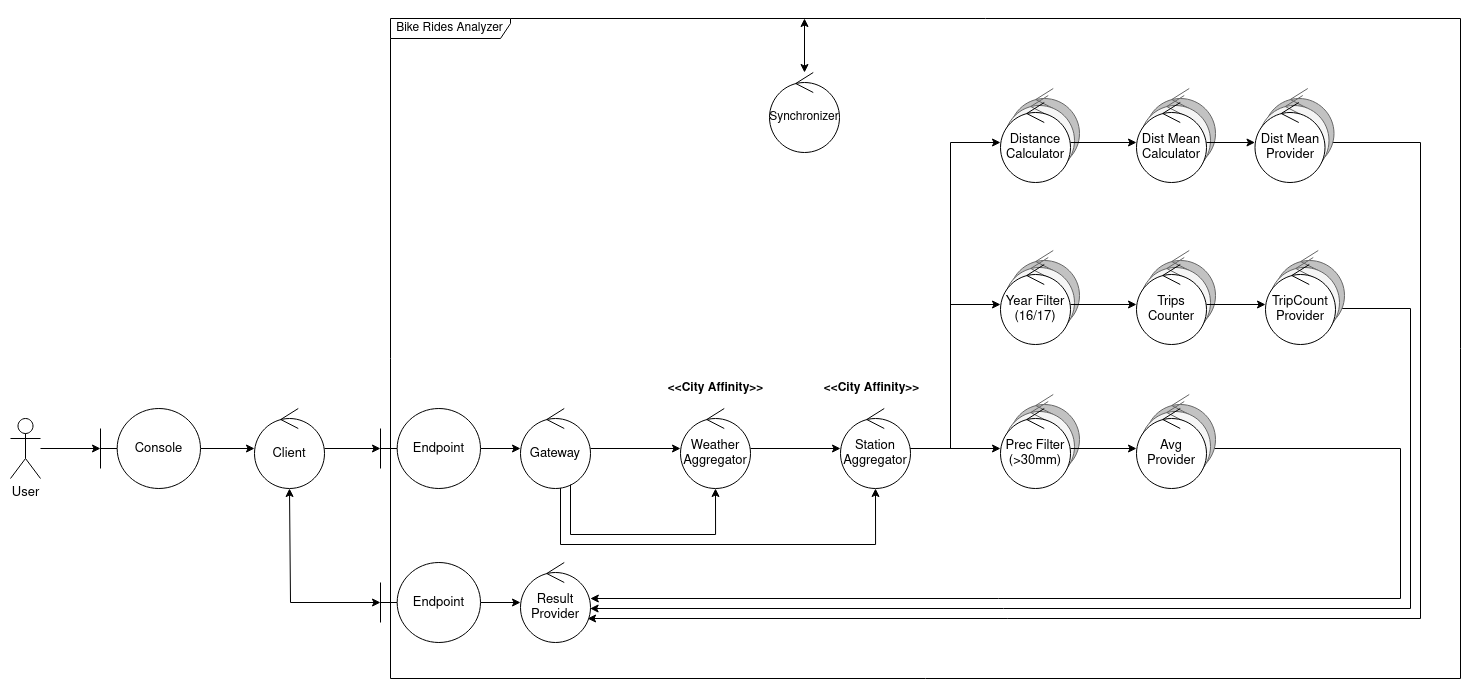
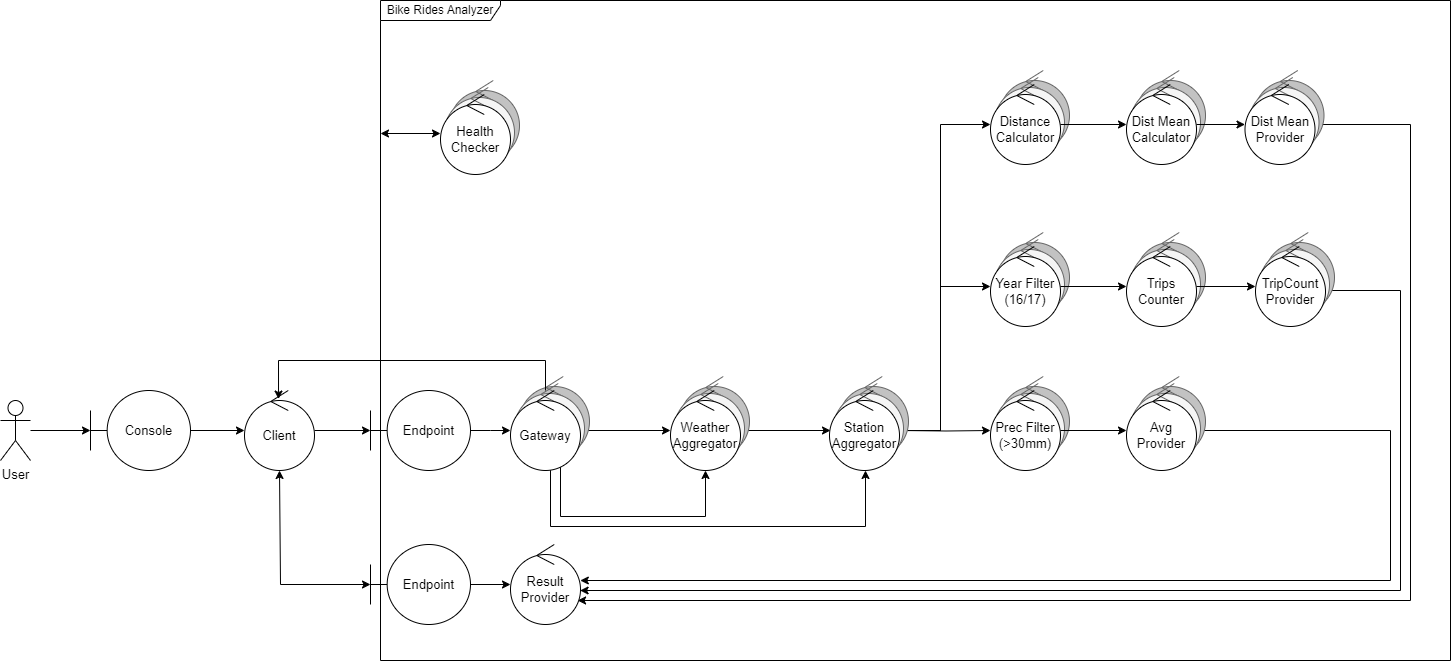
docs: alcance, arqu, vLog, vFis

diff --git a/README.md b/README.md
@@ -91,17 +91,23 @@ Se deben generar los siguientes reportes:
 - Los nombres de estaciones de Montreal para la que el promedio de
   los ciclistas recorren más de 6km en llegar a ellas.
 
+Ademas, el sistema debe permitir la ejecución de múltiples análisis en paralelo y/o en secuencia sin reiniciarlo.
+
 ### Arquitectura de Software
 
-La arquitectura consiste en un cliente, que se comunica con un sistema distribuido
-mediante sockets ZMQ. El sistema procesa la información recibida utilizando RabbitMQ como
-broker de mensajes.
+La arquitectura esta compuesta por multiples nodos de diferentes tipos que se distribuyen el trabajo y responsabilidades del sistema.
+Toda la comunicacion entre nodos se realiza mediante RabbitMQ.
+Los clientes enviaran sus peticiones a un `Gateway`, pudiendo recibir mensajes de control de este, y recibiran sus respuestas de un `ResponseProvider`.
+
+> Pueden verse en mas detalle los componentes del sistema en la [vista fisica](#vista-física).
 
 ### Objetivos y limitaciones arquitectónicas
 
 - **Escalabilidad**: Se debe soportar el incremento de los elementos de cómputo para
   escalar los volúmenes de información a procesar.
 - **Mantenibilidad**: La comunicación de grupos debe encapsularse en un middleware.
+- **Tolerancia a fallas**: El sistema debe ser tolerante a fallas y caidas de los nodos.
+- **Alta disponibilidad**: El sistema debe estar altamente disponible para los clientes.
 
 ### Escenarios
 
@@ -119,7 +125,7 @@ DAG global del sistema.
 
 En el diagrama se puede observar la división de responsabilidades entre los distintos componentes
 del sistema. En primer lugar, el Gateway se encarga de distribuir la información recibida del cliente,
-entre los aggregators. Cada aggregator opera con una side table que contiene un pequeño conjunto de
+entre los aggregators. Cada aggregator opera con una side table que contiene un conjunto de
 datos estáticos.
 
 Para disminuir el tamaño de los mensajes que debe procesar RabbitMQ, el Gateway poda todos los
@@ -129,7 +135,7 @@ necesita la precipitación. Por lo tanto, el Gateway elimina todos los campos qu
 antes de enviar la información al aggregator.
 
 La información de las side tables se ingresa al sistema mediante un mecanismo de pub-sub, para
-permitir que varias réplicas de los aggregators puedan construir sus side tables.
+permitir que todas las réplicas de los aggregators puedan construir sus side tables.
 Esto favorece la escalabilidad del sistema, a costa de duplicar la información en cada réplica.
 
 ### Vista Física
@@ -145,45 +151,34 @@ horizontal.
 
 El cliente se comunica con el sistema a través de dos endpoints: uno para enviar la información (`Gateway`),
 y otro para recibir los reportes (`Result Provider`). En ambos casos, la comunicación se realiza mediante
-sockets ZMQ.
-Dentro del sistema `Bike Rides Analyzer`, la comunicación se realiza mediante RabbitMQ.
+RabbitMQ.
+Dentro del sistema `Bike Rides Analyzer`, la comunicación tambien se realiza mediante RabbitMQ.
 
-Algunas entidades poseen el estereotipo `<<City Affinity>>`. Esto quiere decir que, para dicha entidad,
-existirá un nodo por cada ciudad. Por ejemplo, se deben desplegar tres instancias de `Weather Aggregator`.
 
-Los aggregators, además de tener affinity con una ciudad, pueden replicarse. Por ejemplo, pueden desplegarse
-3 `Weather Aggregator` para Washington, y 2 `Weather Aggregator` para Montreal.
 
-![robustness_query_1](docs/robustness_query_1.png)
+![robustness_query](docs/robustness_query.png)
 
-![robustness_query_2](docs/robustness_query_2.png)
-
-![robustness_query_3](docs/robustness_query_3.png)
-
-Diagramas de robustez detallados, con información de las queues que se utilizan para comunicar las distintas
+Diagrama de robustez detallado, con información de las queues que se utilizan para comunicar las distintas
 etapas del pipeline.
 
-En los anteriores se observa la forma en que se distribuyen los mensajes entre los distintos
-componentes del sistema. Además, se puede ver el mecanismo por el cual se dividen los mensajes en aquellos
-nodos que poseen `<<City Affinity>>`: el nombre de la queue inicia con el nombre de la ciudad, seguido de un
-guion bajo.
+Cada réplica tiene su propia queue, y se utiliza una función de hashing para determinar a qué réplica se le envía cada mensaje.
 
-Por otro lado, se puede observar la forma en que se distribuye el trabajo entre las diferentes réplicas de
-cada nodo. Cada réplica tiene su propia queue, y se utiliza una función de hashing para determinar a qué
-réplica se le envía cada mensaje.
+Siendo el response provider la unica excepcion, que tiene una queue para cada flujo de resultados.
 
 #### Sincronización de EOFs
 
-![synchronizer](docs/synchronizer.png)
+![synchronizer](docs/eofs.png)
 
 Diagrama de sincronización entre las distintas etapas del pipeline.
 
 Para evitar condiciones de carrera al momento de recibir un EOF de parte del cliente, se definió un
-nodo `Synchronizer`. Cuando una réplica de un nodo recibe un EOF, envía un mensaje al Synchronizer.
-Una vez que el Synchronizer recibe un EOF de cada réplica, envía un EOF a todas las réplicas de la
-siguiente etapa del pipeline. Este mensaje se envía a la misma queue que se utiliza para enviar los
-datos de procesamiento, por lo que se garantiza que el EOF se encolará luego de que todos los datos
-estén encolados.
+protocolo de manejo de EOFs (End Of File).
+
+Para propagar un EOF de una etapa a la siguiente, todos los nodos de previos deben enviar un EOF a
+todos los siguientes.
+
+El mecanismo de envio a todos se hace mediante un fanout exchange; donde por ejemplo:
+La routing key `trips_counter` publica mensajes a todos los trip counter (con colas `trip_counter_<num>`)
 
 #### Diagrama de despliegue
 
@@ -193,7 +188,6 @@ Diagrama de despliegue del sistema.
 
 Este diagrama pone en evidencia la fuerte dependencia que existe entre RabbitMQ (Message Queue) y
 los diferentes componentes del sistema.
-Para alivianar la carga del broker, el cliente se comunica directamente con el Gateway y el Result Provider.
 Cada nodo puede desplegarse de manera independiente.
 
 ### Vista de Procesos
